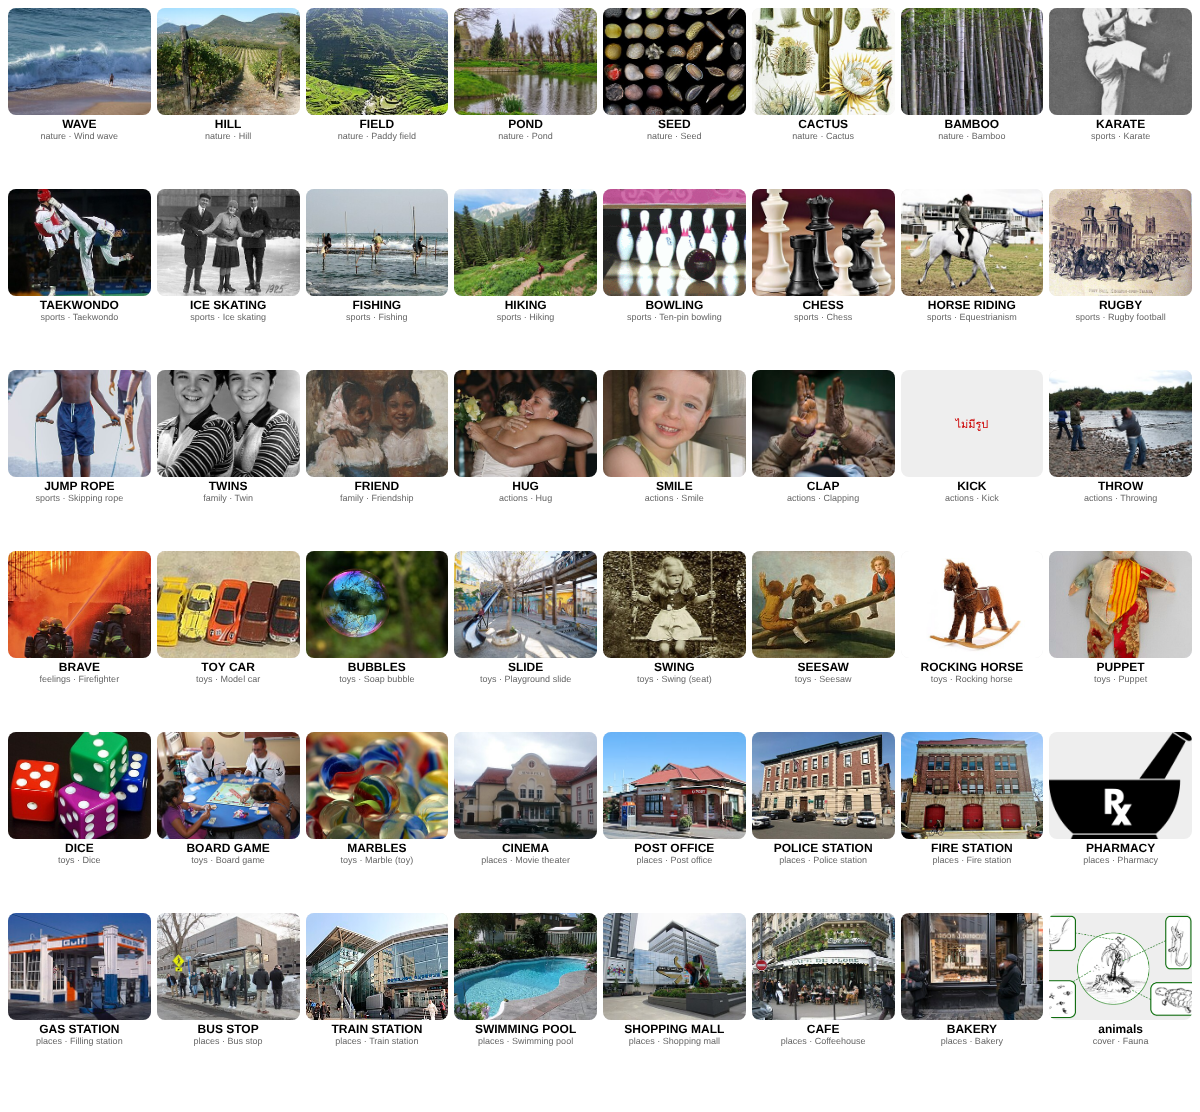
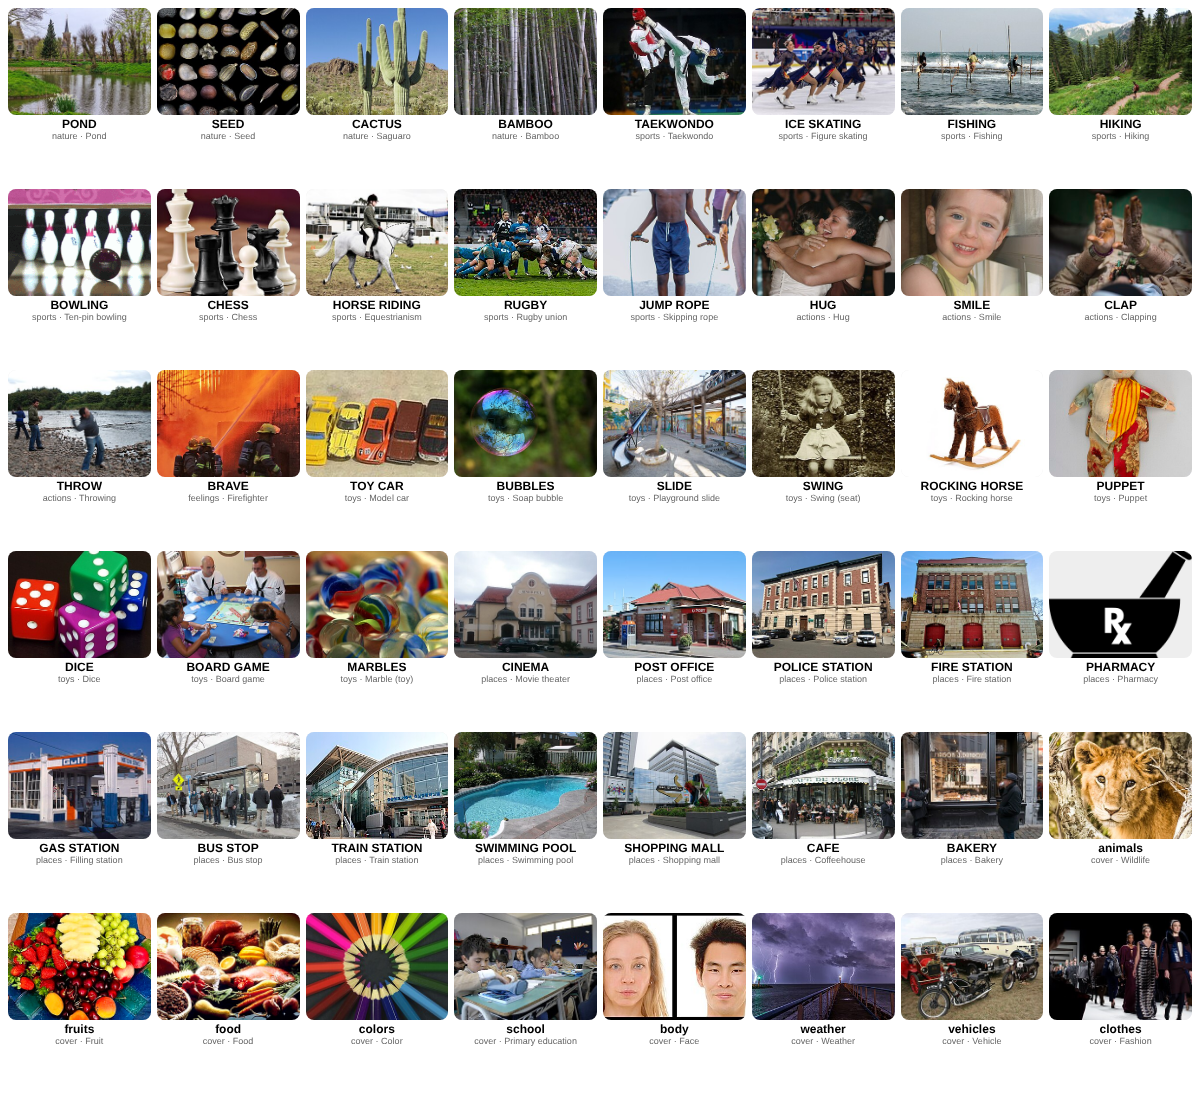
Image title fixes after visual review of v2.2 batch
Claude-Session: https://claude.ai/code/session_016vx82zuUoTJ23pg2H1L6SE

diff --git a/src/images.js b/src/images.js
@@ -113,35 +113,35 @@ add("places", [["CINEMA","Movie theater"],["POST OFFICE","Post office"],["POLICE
 
 // ── รูปปกหมวด (ภาพรวมของหมวด) key = cover|<catId> ──
 add("cover", [
-  ["animals","Wildlife"],["fruits","Fruit"],["food","Food"],["colors","Color"],["school","Primary education"],["body","Face"],["weather","Weather"],
-  ["vehicles","Vehicle"],["clothes","Fashion"],["home","House"],["nature","Nature"],["sports","Sport"],
-  ["family","Parenting"],["actions","Exercise"],["feelings","Smile"],["shapes","Shape"],["toys","Toy"],["places","City"],
+  ["animals","Wildlife"],["fruits","Fruit"],["food","Food"],["colors","Color"],["school","Classroom"],["body","Face"],["weather","Weather"],
+  ["vehicles","Vehicle"],["clothes","Fashion"],["home","Living room"],["nature","Nature"],["sports","Sport"],
+  ["family","Parenting"],["actions","Playground"],["feelings","Smile"],["toys","Toy"],["places","City"],
 ]);
 
 // ── ชุดขยายใหญ่ v2.2 ──
-add("animals", [["WOLF","Wolf"],["CAMEL","Dromedary"],["HIPPO","Hippopotamus"],["RHINO","Rhinoceros"],["GORILLA","Gorilla"],["LEOPARD","Leopard"],["CHEETAH","Cheetah"],["BUFFALO","Water buffalo"],["DONKEY","Donkey"],["SQUIRREL","Squirrel"],["BAT","Bat"],["HEDGEHOG","Hedgehog"],["KOALA","Koala"],["SLOTH","Sloth"],["RACCOON","Raccoon"],["OTTER","Otter"],["SEAL","Pinniped"],["WALRUS","Walrus"],["POLAR BEAR","Polar bear"],["REINDEER","Reindeer"],["MOOSE","Moose"],["BISON","American bison"],["LLAMA","Llama"],["PARROT","Parrot"],["PEACOCK","Peafowl"],["FLAMINGO","Flamingo"],["EAGLE","Bald eagle"],["SWAN","Mute swan"],["GOOSE","Goose"],["TURKEY","Turkey (bird)"],["ROOSTER","Rooster"],["PIGEON","Columbidae"],["SPARROW","House sparrow"],["CROW","Crow"],["HUMMINGBIRD","Hummingbird"],["OSTRICH","Common ostrich"],["LIZARD","Lizard"],["GECKO","Tokay gecko"],["CHAMELEON","Chameleon"],["TORTOISE","Tortoise"],["DINOSAUR","Dinosaur"],["JELLYFISH","Jellyfish"],["STARFISH","Starfish"],["SEAHORSE","Seahorse"],["SHRIMP","Shrimp"],["LOBSTER","Lobster"],["SQUID","Squid"],["CLOWNFISH","Ocellaris clownfish"],["EEL","Eel"],["LADYBUG","Coccinellidae"],["DRAGONFLY","Dragonfly"],["GRASSHOPPER","Grasshopper"],["MOSQUITO","Mosquito"],["FLY","Housefly"],["COCKROACH","Cockroach"],["WORM","Earthworm"],["SNAIL","Snail"],["CATERPILLAR","Caterpillar"],["SCORPION","Scorpion"],["PUPPY","Puppy"],["KITTEN","Kitten"]]);
-add("food", [["STEAK","Steak"],["CHICKEN RICE","Hainanese chicken rice"],["TOM YUM","Tom yum"],["MANGO STICKY RICE","Mango sticky rice"],["SPRING ROLL","Spring roll"],["DUMPLING","Dumpling"],["PORRIDGE","Congee"],["OMELET","Omelette"],["BOILED EGG","Boiled egg"],["TOAST","Toast"],["CEREAL","Breakfast cereal"],["JAM","Fruit preserves"],["PEANUT","Peanut"],["POPCORN","Popcorn"],["CHIPS","Potato chip"],["PUDDING","Crème caramel"],["CUPCAKE","Cupcake"],["PIE","Apple pie"],["WAFFLE","Waffle"],["BUBBLE TEA","Bubble tea"],["LEMONADE","Lemonade"],["SODA","Soft drink"],["SMOOTHIE","Smoothie"],["COCOA","Hot chocolate"],["SOY MILK","Soy milk"],["SAUSAGE","Sausage"],["BACON","Bacon"],["HAM","Ham"],["MEATBALL","Meatball"],["GRILLED PORK","Moo ping"],["FISH BALL","Fish ball"],["TOFU","Tofu"],["SEAWEED","Nori"],["SALAD DRESSING","Salad dressing"],["KETCHUP","Ketchup"],["SOY SAUCE","Soy sauce"],["CHILI","Chili pepper"],["GARLIC","Garlic"],["ONION","Onion"],["PEPPER","Black pepper"],["FLOUR","Flour"],["OIL","Cooking oil"],["BREAKFAST","Breakfast"],["LUNCH","Lunch"],["DINNER","Dinner"]]);
-add("actions", [["JUMP","Jumping"],["STOP","Stop sign"],["DRIVE","Driving"],["FOLD","Origami"],["SWEEP","Broom"],["BAKE","Baking"],["FRY","Frying"],["COMB","Comb"]]);
-add("jobs", [["LAWYER","Lawyer"],["ACCOUNTANT","Accountant"],["PROGRAMMER","Programmer"],["DESIGNER","Fashion design"],["PHOTOGRAPHER","Photographer"],["JOURNALIST","Journalist"],["WRITER","Writer"],["MUSICIAN","Musician"],["PAINTER","Painting"],["ARCHITECT","Architect"],["PLUMBER","Plumber"],["ELECTRICIAN","Electrician"],["CARPENTER","Carpentry"],["GARDENER","Gardener"],["CLEANER","Janitor"],["SECURITY GUARD","Security guard"],["CASHIER","Cashier"],["STREET VENDOR","Street food"],["TAXI DRIVER","Taxicab"],["FLIGHT ATTENDANT","Flight attendant"],["CAPTAIN","Sea captain"],["CLOWN","Clown"],["MAGICIAN","Magic (illusion)"]]);
-add("home", [["LIVING ROOM","Living room"],["BEDROOM","Bedroom"],["BATHROOM","Bathroom"],["GARAGE","Garage (residential)"],["GARDEN","Garden"],["BALCONY","Balcony"],["ROOF","Roof"],["WALL","Wall"],["FLOOR","Flooring"],["STAIRS","Stairs"],["FENCE","Fence"],["CURTAIN","Curtain"],["CARPET","Carpet"],["FAN","Ceiling fan"],["AIR CONDITIONER","Air conditioning"],["WASHING MACHINE","Washing machine"],["MICROWAVE","Microwave oven"],["OVEN","Oven"],["KETTLE","Kettle"],["RICE COOKER","Rice cooker"],["PAN","Frying pan"],["POT","Cookware and bakeware"],["KNIFE","Kitchen knife"],["BOWL","Bowl"],["GLASS","Glass (drinkware)"],["BOTTLE","Bottle"],["CHOPSTICKS","Chopsticks"],["TRASH CAN","Waste container"],["BROOM","Broom"],["BUCKET","Bucket"],["HANGER","Clothes hanger"],["WARDROBE","Wardrobe"],["DRAWER","Drawer (furniture)"],["SHELF","Shelf"],["CANDLE","Candle"],["VASE","Vase"],["PHOTO","Photograph"],["DOORBELL","Doorbell"],["LIGHT","Light fixture"],["SWITCH","Light switch"]]);
+add("animals", [["WOLF","Wolf"],["CAMEL","Dromedary"],["HIPPO","Hippopotamus"],["RHINO","Rhinoceros"],["GORILLA","Gorilla"],["LEOPARD","Leopard"],["CHEETAH","Cheetah"],["BUFFALO","Water buffalo"],["DONKEY","Donkey"],["SQUIRREL","Eastern gray squirrel"],["BAT","Bat"],["HEDGEHOG","Hedgehog"],["KOALA","Koala"],["SLOTH","Sloth"],["RACCOON","Raccoon"],["OTTER","Otter"],["SEAL","Harbor seal"],["WALRUS","Walrus"],["POLAR BEAR","Polar bear"],["REINDEER","Reindeer"],["MOOSE","Moose"],["BISON","American bison"],["LLAMA","Llama"],["PARROT","Parrot"],["PEACOCK","Peafowl"],["FLAMINGO","Flamingo"],["EAGLE","Bald eagle"],["SWAN","Mute swan"],["GOOSE","Goose"],["TURKEY","Turkey (bird)"],["ROOSTER","Rooster"],["PIGEON","Columbidae"],["SPARROW","House sparrow"],["CROW","Crow"],["HUMMINGBIRD","Ruby-throated hummingbird"],["OSTRICH","Common ostrich"],["LIZARD","Lizard"],["GECKO","Tokay gecko"],["CHAMELEON","Chameleon"],["TORTOISE","Tortoise"],["DINOSAUR","Tyrannosaurus"],["JELLYFISH","Jellyfish"],["STARFISH","Starfish"],["SEAHORSE","Seahorse"],["SHRIMP","Shrimp"],["LOBSTER","Lobster"],["SQUID","Squid"],["CLOWNFISH","Ocellaris clownfish"],["EEL","Eel"],["LADYBUG","Coccinellidae"],["DRAGONFLY","Dragonfly"],["GRASSHOPPER","Grasshopper"],["MOSQUITO","Mosquito"],["FLY","Housefly"],["COCKROACH","American cockroach"],["WORM","Earthworm"],["SNAIL","Snail"],["CATERPILLAR","Caterpillar"],["SCORPION","Scorpion"],["PUPPY","Puppy"],["KITTEN","Kitten"]]);
+add("food", [["STEAK","Steak"],["CHICKEN RICE","Hainanese chicken rice"],["TOM YUM","Tom yum"],["MANGO STICKY RICE","Mango sticky rice"],["SPRING ROLL","Spring roll"],["DUMPLING","Dumpling"],["PORRIDGE","Congee"],["OMELET","Omelette"],["BOILED EGG","Boiled egg"],["TOAST","Toast (food)"],["JAM","Fruit preserves"],["PEANUT","Peanut butter"],["POPCORN","Popcorn"],["CHIPS","Potato chip"],["PUDDING","Crème caramel"],["CUPCAKE","Cupcake"],["PIE","Apple pie"],["WAFFLE","Waffle"],["BUBBLE TEA","Bubble tea"],["LEMONADE","Lemonade"],["SODA","Soft drink"],["SMOOTHIE","Smoothie"],["COCOA","Hot chocolate"],["SOY MILK","Soy milk"],["SAUSAGE","Sausage"],["BACON","Bacon"],["HAM","Ham"],["MEATBALL","Meatball"],["FISH BALL","Fish ball"],["TOFU","Tofu"],["SEAWEED","Nori"],["SALAD DRESSING","Salad dressing"],["KETCHUP","Ketchup"],["SOY SAUCE","Soy sauce"],["CHILI","Chili pepper"],["ONION","Onion"],["FLOUR","Flour"],["OIL","Cooking oil"],["BREAKFAST","Breakfast"],["LUNCH","Lunch"],["DINNER","Dinner"]]);
+add("actions", [["STOP","Stop sign"],["DRIVE","Driving"],["BAKE","Baking"],["FRY","Frying"],["COMB","Comb"]]);
+add("jobs", [["LAWYER","Lawyer"],["PROGRAMMER","Computer programming"],["DESIGNER","Fashion design"],["PHOTOGRAPHER","Photographer"],["JOURNALIST","Journalist"],["MUSICIAN","Musician"],["ARCHITECT","Architect"],["PLUMBER","Plumber"],["ELECTRICIAN","Electrician"],["CARPENTER","Carpentry"],["GARDENER","Gardening"],["CLEANER","Janitor"],["SECURITY GUARD","Security guard"],["CASHIER","Cashier"],["STREET VENDOR","Street food"],["TAXI DRIVER","Taxicab"],["FLIGHT ATTENDANT","Flight attendant"],["CLOWN","Clown"],]);
+add("home", [["LIVING ROOM","Living room"],["BEDROOM","Bedroom"],["GARAGE","Garage (residential)"],["GARDEN","Garden"],["BALCONY","Balcony"],["ROOF","Roof"],["WALL","Wall"],["STAIRS","Stairs"],["FENCE","Fence"],["CURTAIN","Curtain"],["CARPET","Carpet"],["FAN","Ceiling fan"],["AIR CONDITIONER","Air conditioning"],["WASHING MACHINE","Washing machine"],["MICROWAVE","Microwave oven"],["OVEN","Oven"],["KETTLE","Kettle"],["RICE COOKER","Rice cooker"],["PAN","Frying pan"],["POT","Cookware and bakeware"],["KNIFE","Kitchen knife"],["BOWL","Bowl"],["GLASS","Glass (drinkware)"],["BOTTLE","Bottle"],["CHOPSTICKS","Chopsticks"],["TRASH CAN","Waste container"],["BROOM","Broom"],["BUCKET","Bucket"],["HANGER","Clothes hanger"],["WARDROBE","Closet"],["DRAWER","Drawer (furniture)"],["SHELF","Bookcase"],["CANDLE","Candle"],["VASE","Vase"],["PHOTO","Photograph"],["DOORBELL","Doorbell"],["LIGHT","Light fixture"],["SWITCH","Light switch"]]);
 add("places", [["HOME","House"],["VILLAGE","Village"],["CITY","Bangkok"],["STREET","Street"],["BRIDGE","Bridge"],["GARDEN","Flower garden"],["HOTEL","Hotel"],["MUSEUM","Museum"],["AQUARIUM","Public aquarium"],["AMUSEMENT PARK","Amusement park"],["STADIUM","Stadium"],["CHURCH","Church (building)"],["MOSQUE","Mosque"],["PALACE","Grand Palace"],["CASTLE","Castle"],["TOWER","Tower"],["OFFICE","Office"],["FACTORY","Factory"],["HARBOR","Harbor"],["ISLAND","Phi Phi Islands"],["JUNGLE","Jungle"],["FLOATING MARKET","Floating market"],["NIGHT MARKET","Night market"],["CONVENIENCE STORE","Convenience store"]]);
-add("school", [["MATH","Mathematics"],["SCIENCE","Science"],["ART","Art"],["MUSIC","Music"],["P.E.","Physical education"],["DICTIONARY","Dictionary"],["WHITEBOARD","Whiteboard"],["PROJECTOR","Video projector"],["PENCIL CASE","Pencil case"],["SHARPENER","Pencil sharpener"],["STICKER","Sticker"],["CANTEEN","Cafeteria"]]);
-add("body", [["FACE","Face"],["HEAD","Human head"],["BEARD","Beard"],["MUSTACHE","Moustache"],["ANKLE","Ankle"],["HIP","Hip"],["CHEST","Thorax"],["BLOOD","Blood"]]);
-add("nature", [["SEA","Sea"],["STREAM","Stream"],["SOIL","Soil"],["MUD","Mud"],["STONE","Rock (geology)"],["SHELL","Seashell"],["CORAL","Coral reef"],["BRANCH","Branch"],["ROOT","Root"],["BUSH","Shrub"],["PALM TREE","Arecaceae"],["LOTUS","Nelumbo nucifera"],["ROSE","Rose"],["SUNFLOWER","Common sunflower"],["ORCHID","Orchid"],["PLANET","Planet"],["EARTH","Earth"],["SPACE","Outer space"],["AIR","Atmosphere of Earth"],["SMOKE","Smoke"]]);
-add("vehicles", [["AIRPLANE","Airplane"],["JET","Jet aircraft"],["SUBWAY","Rapid transit"],["LORRY","Semi-trailer truck"],["RACE CAR","Formula One car"],["JEEP","Jeep"],["CANOE","Canoe"],["LONGTAIL BOAT","Long-tail boat"],["WHEELCHAIR","Wheelchair"],["STROLLER","Baby transport"],["WHEEL","Wheel"],["ENGINE","Engine"],["TRAFFIC LIGHT","Traffic light"],["SEAT BELT","Seat belt"],["HELMET","Bicycle helmet"]]);
-add("clothes", [["JEANS","Jeans"],["HOODIE","Hoodie"],["VEST","High-visibility clothing"],["SUIT","Suit"],["SNEAKERS","Sneakers"],["HIGH HEELS","High-heeled shoe"],["RING","Ring (jewellery)"],["EARRINGS","Earring"],["BRACELET","Bracelet"],["SUNGLASSES","Sunglasses"],["BUTTON","Button"],["POCKET","Pocket"],["ZIPPER","Zipper"]]);
-add("sports", [["GOAL","Goal (sport)"],["RACKET","Racket (sports equipment)"],["BAT","Baseball bat"],["NET","Net (device)"],["WHISTLE","Whistle"],["TEAM","Team"],["COACH","Coach (sport)"],["RACE","Sprint (running)"],["MARATHON","Marathon"],["EXERCISE","Exercise"],["STRETCH","Stretching"],["PUSH-UP","Push-up"],["DIVING","Scuba diving"],["KAYAKING","Kayaking"]]);
-add("toys", [["LEGO","Lego"],["TRAIN SET","Toy train"],["SPINNING TOP","Top"],["WATER GUN","Water gun"],["SANDBOX","Sandpit"],["TRAMPOLINE","Trampoline"],["SCOOTER","Kick scooter"],["ROLLER SKATES","Roller skates"],["CRAYONS","Crayon"],["PLAYDOUGH","Play-Doh"],["MAGNET","Magnet"],["BALLOON ANIMAL","Balloon modelling"]]);
+add("school", [["SCIENCE","Science education"],["ART","Painting"],["MUSIC","Musical instrument"],["P.E.","Physical education"],["DICTIONARY","Dictionary"],["WHITEBOARD","Whiteboard"],["PROJECTOR","Video projector"],["PENCIL CASE","Pencil case"],["SHARPENER","Pencil sharpener"],["CANTEEN","Cafeteria"]]);
+add("body", [["FACE","Face"],["HEAD","Human head"],["BEARD","Beard"],["MUSTACHE","Moustache"],["ANKLE","Ankle"],["BLOOD","Blood"]]);
+add("nature", [["SEA","Sea"],["STREAM","Stream"],["SOIL","Soil"],["MUD","Mud"],["STONE","Pebble"],["SHELL","Seashell"],["CORAL","Coral reef"],["BRANCH","Branch"],["ROOT","Root"],["BUSH","Shrub"],["PALM TREE","Arecaceae"],["LOTUS","Nelumbo nucifera"],["ROSE","Rose"],["SUNFLOWER","Common sunflower"],["ORCHID","Orchid"],["PLANET","Planet"],["EARTH","Earth"],["SPACE","Outer space"],["AIR","Atmosphere of Earth"],["SMOKE","Smoke"]]);
+add("vehicles", [["AIRPLANE","Airplane"],["JET","Jet aircraft"],["SUBWAY","Rapid transit"],["LORRY","Semi-trailer truck"],["RACE CAR","Racing car"],["JEEP","Jeep"],["CANOE","Canoe"],["LONGTAIL BOAT","Long-tail boat"],["WHEELCHAIR","Wheelchair"],["WHEEL","Tire"],["TRAFFIC LIGHT","Traffic light"],["SEAT BELT","Seat belt"],["HELMET","Bicycle helmet"]]);
+add("clothes", [["JEANS","Jeans"],["HOODIE","Hoodie"],["VEST","High-visibility clothing"],["SUIT","Suit"],["SNEAKERS","Sneakers"],["HIGH HEELS","High-heeled shoe"],["RING","Wedding ring"],["BRACELET","Bracelet"],["SUNGLASSES","Sunglasses"],["BUTTON","Button"],["POCKET","Pocket"],["ZIPPER","Zipper"]]);
+add("sports", [["GOAL","Goal (sport)"],["RACKET","Racket (sports equipment)"],["WHISTLE","Whistle"],["TEAM","Team"],["COACH","Coach (sport)"],["RACE","Sprint (running)"],["MARATHON","Marathon"],["EXERCISE","Exercise"],["DIVING","Scuba diving"],["KAYAKING","Kayaking"]]);
+add("toys", [["LEGO","Lego minifigure"],["TRAIN SET","Toy train"],["WATER GUN","Water gun"],["SANDBOX","Sandpit"],["TRAMPOLINE","Trampoline"],["SCOOTER","Kick scooter"],["ROLLER SKATES","Roller skates"],["CRAYONS","Crayon"],["MAGNET","Refrigerator magnet"],["BALLOON ANIMAL","Balloon modelling"]]);
 add("colors", [["RAINBOW COLORS","Rainbow"]]);
 add("family", [["BOY","Boy"],["GIRL","Girl"]]);
-add("fruits", [["CANTALOUPE","Cantaloupe"],["APRICOT","Apricot"],["FIG","Common fig"],["RASPBERRY","Raspberry"],["CRANBERRY","Cranberry"],["PASSION FRUIT","Passiflora edulis"],["MANGOSTEEN","Mangosteen"],["SAPODILLA","Manilkara zapota"],["SUGARCANE","Sugarcane"],["RAISIN","Raisin"]]);
+add("fruits", [["CANTALOUPE","Cantaloupe"],["APRICOT","Apricot"],["RASPBERRY","Raspberry"],["CRANBERRY","Cranberry"],["PASSION FRUIT","Passiflora edulis"],["MANGOSTEEN","Purple mangosteen"],["SAPODILLA","Manilkara zapota"],["SUGARCANE","Sugarcane"],["RAISIN","Raisin"]]);
 add("weather", [["TORNADO","Tornado"],["TYPHOON","Typhoon"],["DRIZZLE","Drizzle"],["HAIL","Hail"],["TEMPERATURE","Thermometer"]]);
-add("vegetables", [["CABBAGE","Cabbage"],["LETTUCE","Lettuce"],["SPINACH","Spinach"],["KALE","Chinese broccoli"],["MORNING GLORY","Ipomoea aquatica"],["CUCUMBER","Cucumber"],["PUMPKIN","Pumpkin"],["EGGPLANT","Eggplant"],["BELL PEPPER","Bell pepper"],["CORN COB","Corn on the cob"],["PEAS","Pea"],["BEANS","Yardlong bean"],["BEAN SPROUTS","Bean sprout"],["CAULIFLOWER","Cauliflower"],["CELERY","Celery"],["RADISH","Daikon"],["SWEET POTATO","Sweet potato"],["TARO","Taro"],["CASSAVA","Cassava"],["GINGER","Ginger"],["GALANGAL","Galangal"],["LEMONGRASS","Cymbopogon"],["BASIL","Thai basil"],["CORIANDER","Coriander"],["SPRING ONION","Scallion"],["LIME","Lime (fruit)"],["BITTER GOURD","Momordica charantia"],["WINTER MELON","Wax gourd"],["BABY CORN","Baby corn"],["ASPARAGUS","Asparagus"],["BAMBOO SHOOT","Bamboo shoot"],["SHIITAKE","Shiitake"],["STRAW MUSHROOM","Volvariella volvacea"],["BEETROOT","Beetroot"],["TURNIP","Turnip"],["OKRA","Okra"],["ZUCCHINI","Zucchini"],["ARTICHOKE","Artichoke"],["SEAWEED SALAD","Wakame"],["VEGETABLES","Vegetable"]]);
-add("technology", [["SMARTPHONE","Smartphone"],["TABLET","Tablet computer"],["LAPTOP","Laptop"],["KEYBOARD","Computer keyboard"],["MOUSE","Computer mouse"],["SCREEN","Computer monitor"],["HEADPHONES","Headphones"],["SPEAKER","Loudspeaker"],["CAMERA","Camera"],["PRINTER","Printer (computing)"],["BATTERY","Battery (electricity)"],["CHARGER","Battery charger"],["CABLE","USB"],["WIFI","Wi-Fi"],["INTERNET","Internet"],["EMAIL","Email"],["VIDEO","Video"],["GAME","Video game"],["ROBOT VACUUM","Robotic vacuum cleaner"],["REMOTE","Remote control"],["CLOCK APP","Alarm clock"],["PASSWORD","Password"],["SCREENSHOT","Screenshot"],["DRONE","Unmanned aerial vehicle"],["SATELLITE","Satellite"]]);
-add("music", [["VIOLIN","Violin"],["TRUMPET","Trumpet"],["FLUTE","Flute"],["SAXOPHONE","Saxophone"],["XYLOPHONE","Xylophone"],["TAMBOURINE","Tambourine"],["HARP","Harp"],["UKULELE","Ukulele"],["ACCORDION","Accordion"],["MARACAS","Maraca"],["RANAT","Ranat ek"],["KHIM","Khim"],["SINGER","Singing"],["CONCERT","Concert"],["MICROPHONE","Microphone"]]);
+add("vegetables", [["CABBAGE","Cabbage"],["LETTUCE","Lettuce"],["SPINACH","Spinach"],["KALE","Chinese broccoli"],["MORNING GLORY","Ipomoea aquatica"],["CUCUMBER","Cucumber"],["PUMPKIN","Pumpkin"],["EGGPLANT","Eggplant"],["BELL PEPPER","Bell pepper"],["CORN COB","Corn on the cob"],["PEAS","Pea"],["BEAN SPROUTS","Bean sprout"],["CAULIFLOWER","Cauliflower"],["CELERY","Celery"],["RADISH","Daikon"],["SWEET POTATO","Sweet potato"],["TARO","Taro"],["LEMONGRASS","Cymbopogon"],["BASIL","Thai basil"],["SPRING ONION","Scallion"],["LIME","Lime (fruit)"],["WINTER MELON","Wax gourd"],["BABY CORN","Baby corn"],["ASPARAGUS","Asparagus officinalis"],["BAMBOO SHOOT","Bamboo shoot"],["SHIITAKE","Shiitake"],["STRAW MUSHROOM","Volvariella volvacea"],["BEETROOT","Beetroot"],["TURNIP","Turnip"],["OKRA","Okra"],["ZUCCHINI","Zucchini"],["ARTICHOKE","Artichoke"],["SEAWEED SALAD","Wakame"],["VEGETABLES","Vegetable"]]);
+add("technology", [["SMARTPHONE","Smartphone"],["TABLET","Tablet computer"],["LAPTOP","Laptop"],["KEYBOARD","Computer keyboard"],["MOUSE","Computer mouse"],["SCREEN","Computer monitor"],["HEADPHONES","Headphones"],["SPEAKER","Loudspeaker"],["CAMERA","Camera"],["PRINTER","Printer (computing)"],["BATTERY","Battery (electricity)"],["CABLE","USB"],["WIFI","Wi-Fi"],["GAME","Video game"],["ROBOT VACUUM","Robotic vacuum cleaner"],["REMOTE","Remote control"],["CLOCK APP","Alarm clock"],["DRONE","Unmanned aerial vehicle"],["SATELLITE","Satellite"]]);
+add("music", [["VIOLIN","Violin"],["FLUTE","Western concert flute"],["SAXOPHONE","Alto saxophone"],["XYLOPHONE","Xylophone"],["TAMBOURINE","Tambourine"],["HARP","Concert harp"],["UKULELE","Ukulele"],["ACCORDION","Accordion"],["MARACAS","Maraca"],["RANAT","Ranat ek"],["KHIM","Khim"],["SINGER","Singing"],["CONCERT","Concert"],["MICROPHONE","Microphone"]]);
 add("time", [["APRIL","Songkran (Thailand)"],["NOVEMBER","Loy Krathong"],["MORNING","Sunrise"],["EVENING","Sunset"],["NIGHT","Night"],["BIRTHDAY","Birthday cake"]]);
-add("countries", [["THAILAND","Thailand"],["JAPAN","Japan"],["CHINA","Great Wall of China"],["KOREA","South Korea"],["INDIA","Taj Mahal"],["VIETNAM","Vietnam"],["LAOS","Laos"],["MYANMAR","Myanmar"],["CAMBODIA","Angkor Wat"],["MALAYSIA","Malaysia"],["SINGAPORE","Singapore"],["AUSTRALIA","Australia"],["ENGLAND","Big Ben"],["AMERICA","Statue of Liberty"],["FRANCE","Eiffel Tower"],["ITALY","Italy"],["EGYPT","Egyptian pyramids"],["BRAZIL","Brazil"],["WORLD","World map"],["FLAG","National flag"]]);
-add("cover", [["vegetables","Vegetable"],["technology","Consumer electronics"],["music","Musical instrument"],["time","Calendar"],["countries","World map"]]);
+add("countries", [["THAILAND","Wat Arun"],["JAPAN","Mount Fuji"],["CHINA","Great Wall of China"],["KOREA","Gyeongbokgung"],["INDIA","Taj Mahal"],["VIETNAM","Ha Long Bay"],["LAOS","Luang Prabang"],["MYANMAR","Shwedagon Pagoda"],["CAMBODIA","Angkor Wat"],["MALAYSIA","Petronas Towers"],["SINGAPORE","Merlion"],["AUSTRALIA","Sydney Opera House"],["ENGLAND","Big Ben"],["AMERICA","Statue of Liberty"],["FRANCE","Eiffel Tower"],["ITALY","Colosseum"],["EGYPT","Egyptian pyramids"],["BRAZIL","Christ the Redeemer (statue)"],["WORLD","World map"],["FLAG","National flag"]]);
+add("cover", [["vegetables","Vegetable"],["technology","Consumer electronics"],["music","Musical instrument"],["time","Clock"],["countries","World map"]]);
 
 export const IMAGE_TITLES = T;
 export const imageTitleOf = w => (w && T[`${w.cat}|${w.word}`]) || null;
